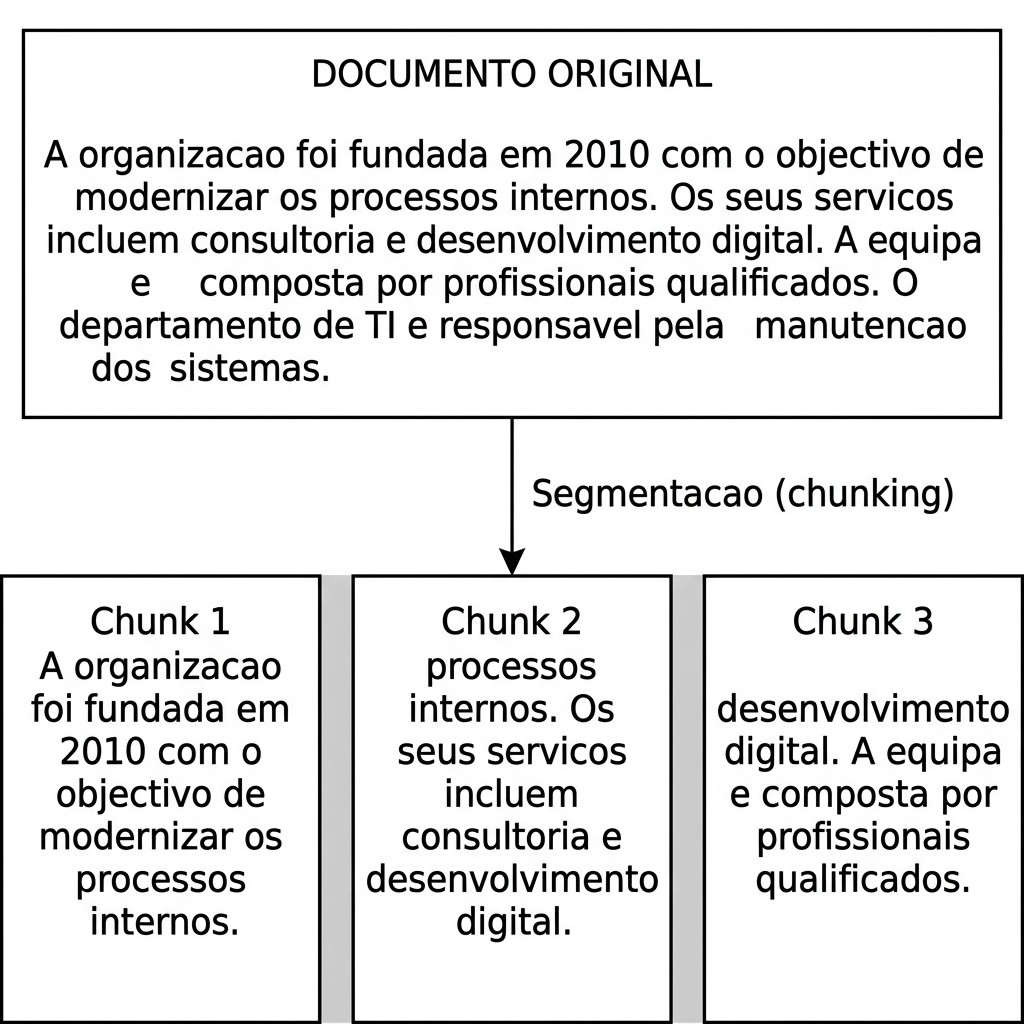
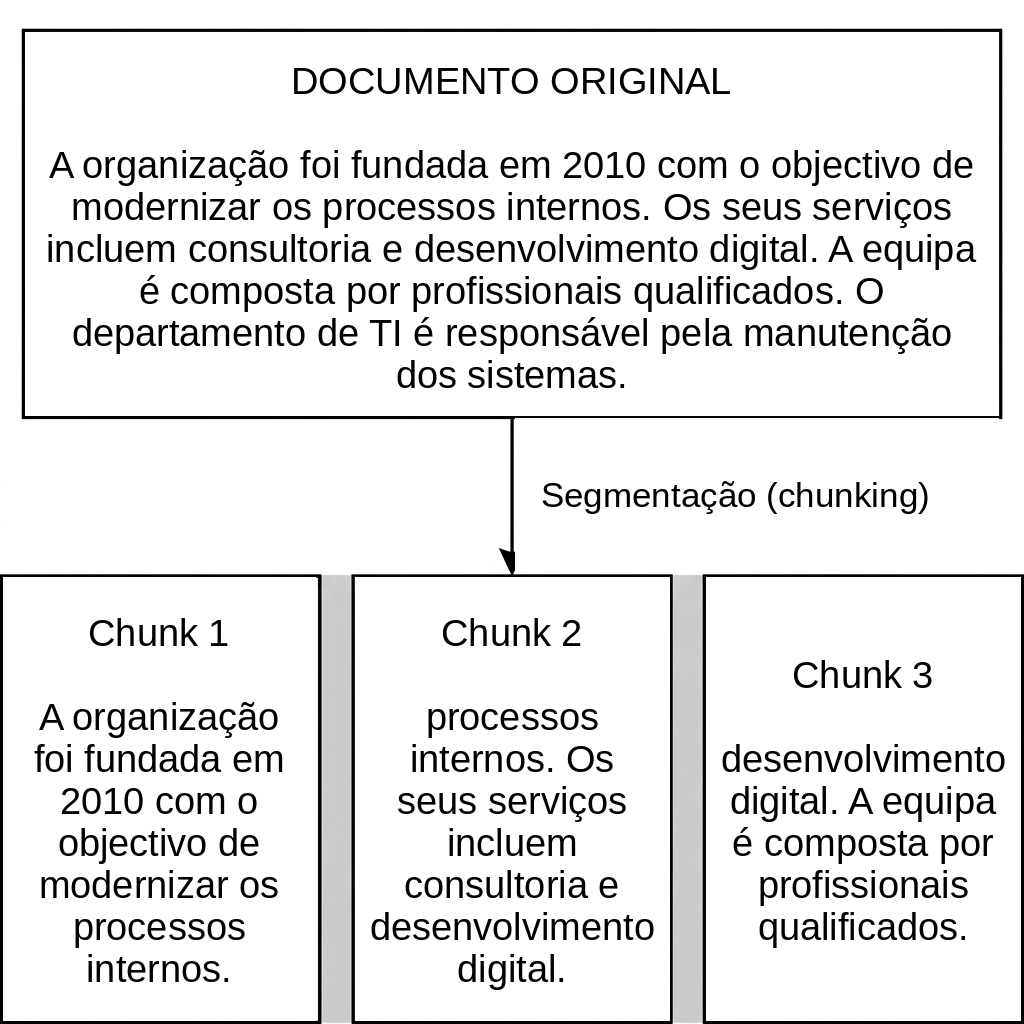
refactor: update thesis documentation and improve LaTeX build pipeline with new Lua filters and figure formatting

diff --git a/docs/chapters/04-resultados.md b/docs/chapters/04-resultados.md
@@ -50,7 +50,7 @@ Os Requisitos Funcionais (RF) definem os serviços que o sistema deve fornecer a
 \textbf{RF-08} & Gestão de Utilizadores & O administrador deve poder gerir os utilizadores da empresa, associando-os a um departamento e a um cargo específico. \\
 \hline
 \end{tabular}
-\caption{Quadro 4.1: Requisitos Funcionais do Sistema. Fonte: Elaboração própria.}
+\caption[Quadro 4.1: Requisitos Funcionais do Sistema.]{Quadro 4.1: Requisitos Funcionais do Sistema. Fonte: Elaboração própria.}
 \end{quadro}
 
 #### 4.1.2.2. Requisitos Não Funcionais
@@ -75,7 +75,7 @@ Os Requisitos Não Funcionais (RNF) especificam critérios que qualificam o func
 \textbf{RNF-05} & Disponibilidade e Extensibilidade & A lógica de ingestão documental e recuperação RAG deve correr numa infra-estrutura modular externa (n8n), facilitando a adição de novos conectores sem necessidade de recompilar o frontend Next.js. \\
 \hline
 \end{tabular}
-\caption{Quadro 4.2: Requisitos Não Funcionais do Sistema. Fonte: Elaboração própria.}
+\caption[Quadro 4.2: Requisitos Não Funcionais do Sistema.]{Quadro 4.2: Requisitos Não Funcionais do Sistema. Fonte: Elaboração própria.}
 \end{quadro}
 
 ### 4.1.3. Modelação do Sistema
@@ -86,6 +86,7 @@ A modelação gráfica do sistema foi elaborada recorrendo à linguagem UML (*Un
 
 O Diagrama de Contexto define a fronteira entre a aplicação desenvolvida e as entidades ou sistemas externos com os quais interage directamente para assegurar as funcionalidades requeridas.
 
+::: {.keep-together}
 ```plantuml
 @startuml
 skinparam rectangle {
@@ -120,15 +121,16 @@ n8n --> cohere : "Textos para Processamento"
 cohere --> n8n : "Vectores / Respostas"
 @enduml
 ```
-
-\begin{center}
-\captionof{figure}{Diagrama de Contexto do Sistema. Fonte: Elaboração própria.}
-\end{center}
+```{=latex}
+\caption[Diagrama de Contexto do Sistema.]{Diagrama de Contexto do Sistema. Fonte: Elaboração própria.}
+```
+:::
 
 #### 4.1.3.2. Diagrama de Casos de Uso
 
 O Diagrama de Casos de Uso detalha as interacções dos actores principais (Utilizador e Administrador) com o sistema, mapeando o escopo funcional do protótipo desenvolvido.
 
+::: {.keep-together}
 ```plantuml
 @startuml
 left to right direction
@@ -158,10 +160,10 @@ Admin --> UC6
 Admin --> UC7
 @enduml
 ```
-
-\begin{center}
-\captionof{figure}{Diagrama de Casos de Uso do Sistema. Fonte: Elaboração própria.}
-\end{center}
+```{=latex}
+\caption[Diagrama de Casos de Uso do Sistema.]{Diagrama de Casos de Uso do Sistema. Fonte: Elaboração própria.}
+```
+:::
 
 #### 4.1.3.3. Especificação dos Casos de Uso
 
@@ -194,7 +196,7 @@ A especificação detalhada dos casos de uso principais do sistema fornece uma d
 \textbf{Pós-condições:} & A sessão do chat é registada na base de dados e a resposta contendo a referência às fontes é mostrada ao utilizador. \\
 \hline
 \end{tabular}
-\caption{Quadro 4.3: Especificação do Caso de Uso - Consultar Base de Conhecimento (Chat). Fonte: Elaboração própria.}
+\caption[Quadro 4.3: Especificação do Caso de Uso - Consultar Base de Conhecimento (Chat).]{Quadro 4.3: Especificação do Caso de Uso - Consultar Base de Conhecimento (Chat). Fonte: Elaboração própria.}
 \end{quadro}
 
 O Quadro 4.4 descreve a especificação do caso de uso de Upload de Conteúdo e Configuração de Acesso.
@@ -226,13 +228,14 @@ O Quadro 4.4 descreve a especificação do caso de uso de Upload de Conteúdo e 
 \textbf{Pós-condições:} & O conteúdo encontra-se guardado, vectorizado e pronto a ser recuperado em pesquisas semânticas pelas pessoas autorizadas. \\
 \hline
 \end{tabular}
-\caption{Quadro 4.4: Especificação do Caso de Uso - Upload de Conteúdo e Acessos. Fonte: Elaboração própria.}
+\caption[Quadro 4.4: Especificação do Caso de Uso - Upload de Conteúdo e Acessos.]{Quadro 4.4: Especificação do Caso de Uso - Upload de Conteúdo e Acessos. Fonte: Elaboração própria.}
 \end{quadro}
 
 #### 4.1.3.4. Diagrama de Classes
 
 O Diagrama de Classes apresenta a estrutura lógica do sistema ao nível do domínio dos dados, modelando as entidades principais, os seus atributos e os relacionamentos de associação e multiplicidade que sustentam o funcionamento da plataforma.
 
+::: {.keep-together}
 ```plantuml
 @startuml
 class Company {
@@ -319,10 +322,10 @@ Document "*" o-- "*" Department : restrito por DocumentDepartment >
 Document "*" o-- "*" Role : restrito por DocumentPermission >
 @enduml
 ```
-
-\begin{center}
-\captionof{figure}{Diagrama de Classes do Domínio do Sistema. Fonte: Elaboração própria.}
-\end{center}
+```{=latex}
+\caption[Diagrama de Classes do Domínio do Sistema.]{Diagrama de Classes do Domínio do Sistema. Fonte: Elaboração própria.}
+```
+:::
 
 #### 4.1.3.5. Diagrama Entidade-Relacional
 
@@ -330,6 +333,7 @@ O Diagrama Entidade-Relacional (DER) detalha a modelação lógica e física da 
 
 A modelação inclui adicionalmente a chave estrangeira `company_id` na tabela `documents` para impor um isolamento estrito de múltiplos inquilinos (*multi-tenancy*) ao nível relacional, mitigando o risco de vazamento de dados exposto em fases anteriores de teste.
 
+::: {.keep-together}
 ```plantuml
 @startuml
 !define Table(name,desc) entity name as "desc" << (T,#FFAAAA) >>
@@ -450,10 +454,10 @@ documents ||--o{ chunks : "fragmentado em"
 ai_chat_sessions ||--o{ ai_chat_messages : "contém"
 @enduml
 ```
-
-\begin{center}
-\captionof{figure}{Diagrama Entidade-Relacional (DER) da Base de Dados. Fonte: Elaboração própria.}
-\end{center}
+```{=latex}
+\caption[Diagrama Entidade-Relacional (DER) da Base de Dados.]{Diagrama Entidade-Relacional (DER) da Base de Dados. Fonte: Elaboração própria.}
+```
+:::
 
 ### 4.1.4. Qualidade do Software
 
@@ -498,6 +502,7 @@ Para garantir que o agente de inteligência artificial produza respostas formata
 
 A arquitectura do sistema segue um modelo de camadas descentralizado, separando a interface do utilizador, a lógica da aplicação, a base de dados relacional e vectorial, e a orquestração assíncrona dos pipelines de Inteligência Artificial.
 
+::: {.keep-together}
 ```plantuml
 @startuml
 !include https://raw.githubusercontent.com/plantuml-stdlib/C4-PlantUML/master/C4_Container.puml
@@ -532,10 +537,10 @@ Rel(n8nApp, rerankAPI, "Re-ranking semântico", "REST API")
 Rel(n8nApp, chatAPI, "Gera respostas RAG", "REST API")
 @enduml
 ```
-
-\begin{center}
-\captionof{figure}{Arquitectura Física e Lógica do Sistema. Fonte: Elaboração própria.}
-\end{center}
+```{=latex}
+\caption[Arquitectura Física e Lógica do Sistema.]{Arquitectura Física e Lógica do Sistema. Fonte: Elaboração própria.}
+```
+:::
 
 #### 4.1.5.4. Ferramentas e Tecnologias Utilizadas
 
@@ -569,7 +574,7 @@ A stack tecnológica seleccionada para a implementação do protótipo baseia-se
 \textbf{Síntese LLM} & Cohere Chat (\texttt{command\-r\-plus\-08\-2024}) & Modelo de linguagem optimizado para tarefas RAG com forte capacidade de raciocínio, formatação estruturada e citação transparente de fontes do contexto. \\
 \hline
 \end{tabular}
-\caption{Quadro 4.5: Stack Tecnológica do Sistema. Fonte: Elaboração própria.}
+\caption[Quadro 4.5: Stack Tecnológica do Sistema.]{Quadro 4.5: Stack Tecnológica do Sistema. Fonte: Elaboração própria.}
 \end{quadro}
 
 Adicionalmente, os detalhes das \textit{system prompts} utilizadas e as configurações específicas de hiperparâmetros dos modelos Cohere, essenciais para a reprodutibilidade dos resultados, encontram-se detalhados no **Anexo II**.
@@ -597,7 +602,7 @@ Os testes de eficiência temporal mediram o tempo de resposta (em segundos) em d
 \textbf{T-06} & Pesquisa Semântica & Consulta de 2 linhas ("Como solicitar reembolso de despesas?") & 2.15 & Sucesso \\
 \hline
 \end{tabular}
-\caption{Tabela 4.1: Resultados dos Testes de Eficiência Temporal com Documentos Empresariais. Fonte: Elaboração própria.}
+\caption[Tabela 4.1: Resultados dos Testes de Eficiência Temporal com Documentos Empresariais.]{Tabela 4.1: Resultados dos Testes de Eficiência Temporal com Documentos Empresariais. Fonte: Elaboração própria.}
 \end{tabela}
 
 Os resultados demonstram que, mesmo com a latência de rede associada à invocação assíncrona de webhooks no n8n e à geração remota de \textit{embeddings} pela API da Cohere, o tempo médio para obter uma resposta inteligente manteve-se confortavelmente abaixo do limiar de 10 segundos definido no requisito **RNF-02**. O requisito RNF-02 aplica-se exclusivamente ao fluxo de consulta semântica e geração de resposta (T-05, T-06). Os testes T-01 a T-04 correspondem ao fluxo de ingestão documental, não abrangido por este requisito.
@@ -626,7 +631,7 @@ A avaliação qualitativa seguiu uma rubrica padronizada: 'Excelente' (o sistema
 \textbf{QA-04} & Operador / Produção / Empresa B & "Como iniciar a máquina X?" & Acede à página Wiki \texttt{Proc\_}\newline\texttt{Maquina\_X} (Produção). & \textbf{Permitido:} Pertence ao departamento do utilizador. & \textbf{Excelente:} Passos descritos de forma coerente. & Sim (\texttt{Proc\_}\newline\texttt{Maquina\_X}) \\
 \hline
 \end{tabular}
-\caption{Quadro 4.6: Matriz de Testes de Relevância Qualitativa e Segurança. Fonte: Elaboração própria.}
+\caption[Quadro 4.6: Matriz de Testes de Relevância Qualitativa e Segurança.]{Quadro 4.6: Matriz de Testes de Relevância Qualitativa e Segurança. Fonte: Elaboração própria.}
 \end{quadro}
 
 A análise qualitativa das simulações fornece evidências preliminares da eficácia das políticas implementadas: nos cenários avaliados, os mecanismos actuaram de forma a não permitir o envio de dados não autorizados para o LLM, nem permitiram o acesso a documentos de outro tenant nem a documentos fora do perímetro de autorização do utilizador, mitigando a possibilidade de fuga de informação inter-tenant e minimizando alucinações ao limitar o contexto apenas a dados autorizados.
@@ -641,7 +646,7 @@ Apresenta um formulário unificado e responsivo com divisão visual (imagem conc
 
 \begin{figure}[htbp]
   \makebox[\textwidth][c]{\includegraphics[width=1.2\textwidth]{docs/images/login.png}}
-  \caption{Ecrã de Autenticação e registo Multi-tenant. Fonte: Elaboração própria.}
+  \caption[Ecrã de Autenticação e registo Multi-tenant.]{Ecrã de Autenticação e registo Multi-tenant. Fonte: Elaboração própria.}
 \end{figure}
 
 ##### b) Painel Administrativo (RBAC e Departamentos)
@@ -650,7 +655,7 @@ Fornece interfaces centralizadas para gestão de acesso relacional. Através des
 
 \begin{figure}[htbp]
   \makebox[\textwidth][c]{\includegraphics[width=1.2\textwidth]{docs/images/administracao.png}}
-  \caption{Interface do Painel Administrativo (RBAC e Departamentos). Fonte: Elaboração própria.}
+  \caption[Interface do Painel Administrativo (RBAC e Departamentos).]{Interface do Painel Administrativo (RBAC e Departamentos). Fonte: Elaboração própria.}
 \end{figure}
 
 ##### c) Módulo de Gestão Documental e Upload
@@ -661,14 +666,14 @@ O módulo de documentos subdivide-se no ecossistema de carregamento e na tabela 
 
 \begin{figure}[htbp]
   \makebox[\textwidth][c]{\includegraphics[width=1.2\textwidth]{docs/images/upload-arquivos.png}}
-  \caption{Módulo de Carregamento de Documentos (\textit{Drag-and-Drop}). Fonte: Elaboração própria.}
+  \caption[Módulo de Carregamento de Documentos (\textit{Drag-and-Drop}).]{Módulo de Carregamento de Documentos (\textit{Drag-and-Drop}). Fonte: Elaboração própria.}
 \end{figure}
 
 *   **Tabela de Base Documental:** Exibe o repositório centralizado de ficheiros da organização, listando metadados como tamanho, departamento associado, data de criação e o estado de conversão e vectorização em tempo real (`pending`, `processed`, `error`).
 
 \begin{figure}[htbp]
   \makebox[\textwidth][c]{\includegraphics[width=1.2\textwidth]{docs/images/base-documental.png}}
-  \caption{Tabela da Base Documental Organizacional. Fonte: Elaboração própria.}
+  \caption[Tabela da Base Documental Organizacional.]{Tabela da Base Documental Organizacional. Fonte: Elaboração própria.}
 \end{figure}
 
 ##### d) Módulo de Wiki Corporativa
@@ -677,7 +682,7 @@ Consiste num editor de texto incorporado directamente na plataforma. Permite aos
 
 \begin{figure}[htbp]
   \makebox[\textwidth][c]{\includegraphics[width=1.2\textwidth]{docs/images/wiki.png}}
-  \caption{Módulo de Wiki e Edição de Conteúdo Interno. Fonte: Elaboração própria.}
+  \caption[Módulo de Wiki e Edição de Conteúdo Interno.]{Módulo de Wiki e Edição de Conteúdo Interno. Fonte: Elaboração própria.}
 \end{figure}
 
 ##### e) Interface de Chat IA (Pesquisa Inteligente)
@@ -686,7 +691,7 @@ Representa a interface principal de interacção do utilizador com o agente de i
 
 \begin{figure}[htbp]
   \makebox[\textwidth][c]{\includegraphics[width=1.2\textwidth]{docs/images/chat-ia.png}}
-  \caption{Interface de Pesquisa Inteligente e Inspeção de Fontes Bibliográficas. Fonte: Elaboração própria.}
+  \caption[Interface de Pesquisa Inteligente e Inspeção de Fontes Bibliográficas.]{Interface de Pesquisa Inteligente e Inspeção de Fontes Bibliográficas. Fonte: Elaboração própria.}
 \end{figure}
 
 #### 4.1.5.7. Codificação

diff --git a/docs/chapters/00-pre-textuais.md b/docs/chapters/00-pre-textuais.md
@@ -142,7 +142,7 @@ Expresso a minha mais profunda e sincera gratidão à minha mãe, Santa Madalena
 
 \section*{Resumo}
 
-Este Trabalho Final de Curso apresenta o desenvolvimento e a avaliação de um protótipo de sistema de Gestão da Informação Organizacional suportado por Inteligência Artificial, desenhado especificamente para mitigar a fragmentação e os silos de dados nas organizações angolanas. Através de uma arquitectura \textit{Retrieval-Augmented Generation} (RAG), combinada com um orquestrador de automação (n8n), uma base de dados relacional com suporte a armazenamento e pesquisa vectorial (Supabase/PostgreSQL com `pgvector`) e uma interface moderna em Next.js, a plataforma permite centralizar acervos documentais e oferecer pesquisas por meio de conversação. O sistema foca-se no isolamento \textit{multi-tenant} e num controlo de acessos baseado em papéis e departamentos (RBAC/ABAC), garantindo que os utilizadores apenas interajam com informação estritamente autorizada, ajudando a mitigar o risco de alucinações e fugas de dados confidenciais. Os resultados práticos validam a viabilidade operacional e técnica desta solução, evidenciando respostas rápidas e metodologicamente seguras, democratizando assim o acesso ao conhecimento institucional. Para fins de transparência e reprodutibilidade, o código-fonte integral encontra-se disponível publicamente no GitHub (https://github.com/Cristiano-Rodrigues/TFC), e um protótipo funcional para demonstração pode ser acedido em https://tfc-lemon.vercel.app.
+Este Trabalho Final de Curso apresenta o desenvolvimento e a avaliação de um protótipo de sistema de Gestão da Informação Organizacional suportado por Inteligência Artificial, desenhado especificamente para mitigar a fragmentação e os silos de dados nas organizações angolanas. Através de uma arquitectura \textit{Retrieval-Augmented Generation} (RAG), combinada com um orquestrador de automação (n8n), uma base de dados relacional com suporte a armazenamento e pesquisa vectorial (Supabase/PostgreSQL com `pgvector`) e uma interface moderna em Next.js, a plataforma permite centralizar acervos documentais e oferecer pesquisas por meio de conversação. O sistema possui isolamento \textit{multi-tenant} e um controlo de acessos baseado em papéis e departamentos (RBAC/ABAC), garantindo que os utilizadores apenas interajam com informação estritamente autorizada, ajudando a mitigar o risco de alucinações e fugas de dados confidenciais. Os resultados práticos evidenciam a viabilidade operacional e técnica desta solução, proporcionando respostas rápidas e metodologicamente seguras, democratizando assim o acesso ao conhecimento institucional. Para fins de transparência e reprodutibilidade, o código-fonte integral encontra-se disponível publicamente no GitHub (https://github.com/Cristiano-Rodrigues/TFC), e um protótipo funcional para demonstração pode ser acedido em https://tfc-lemon.vercel.app.
 
 \vspace{0.5cm}
 \noindent \textbf{Palavras-chave:} Inteligência Artificial, RAG, Gestão do Conhecimento.
@@ -150,7 +150,7 @@ Este Trabalho Final de Curso apresenta o desenvolvimento e a avaliação de um p
 
 \section*{Abstract}
 
-This final degree project presents the development and evaluation of an Artificial Intelligence-supported Organizational Information Management prototype, specifically designed to mitigate data fragmentation and information silos within Angolan organizations. Through a \textit{Retrieval-Augmented Generation} (RAG) architecture, combined with a low-code automation orchestrator (n8n), a relational database with support for vector storage and search (Supabase/PostgreSQL with `pgvector`), and a modern Next.js interface, the platform allows the centralization of document collections and provides conversational search capabilities. The system focuses on multi-tenant isolation and access control based on roles and departments (RBAC/ABAC), ensuring that users only interact with strictly authorized information, helping to mitigate the risk of AI hallucinations and confidential data leaks. Practical results validate the operational and technical feasibility of this solution, demonstrating fast and methodologically secure responses, ultimately democratizing access to institutional knowledge. For transparency and reproducibility purposes, the complete source code is publicly available on GitHub (https://github.com/Cristiano-Rodrigues/TFC), and a functional prototype for demonstration can be accessed at https://tfc-lemon.vercel.app.
+This final degree project presents the development and evaluation of an Artificial Intelligence-supported Organizational Information Management prototype, specifically designed to mitigate data fragmentation and information silos within Angolan organizations. Through a \textit{Retrieval-Augmented Generation} (RAG) architecture, combined with a low-code automation orchestrator (n8n), a relational database with support for vector storage and search (Supabase/PostgreSQL with `pgvector`), and a modern Next.js interface, the platform allows the centralization of document collections and provides conversational search capabilities. The system has multi-tenant isolation and access control based on roles and departments (RBAC/ABAC), ensuring that users only interact with strictly authorized information, helping to mitigate the risk of AI hallucinations and confidential data leaks. Practical results demonstrate the operational and technical feasibility of this solution, providing fast and methodologically secure responses, ultimately democratizing access to institutional knowledge. For transparency and reproducibility purposes, the complete source code is publicly available on GitHub (https://github.com/Cristiano-Rodrigues/TFC), and a functional prototype for demonstration can be accessed at https://tfc-lemon.vercel.app.
 
 \vspace{0.5cm}
 \noindent \textbf{Keywords:} Artificial Intelligence, RAG, Knowledge Management.

diff --git a/docs/chapters/01-introducao.md b/docs/chapters/01-introducao.md
@@ -22,7 +22,7 @@ No contexto das organizações angolanas, a gestão da informação apresenta de
 
 O Ministério das Telecomunicações, Tecnologias de Informação e Comunicação Social (MTTI) reconhece esta lacuna, sublinhando a necessidade urgente de transição para serviços digitais mais eficientes no seu Livro Branco sobre as TIC [@mttiLivroBrancoTIC2019]. Adicionalmente, @quialaGOVERNOELETRONICOUMA2023 evidenciam que a modernização administrativa em Angola carece de sistemas integrados que superem as barreiras da burocracia documental tradicional. Apesar da evolução global, a Inteligência Artificial é ainda frequentemente percepcionada nestas organizações como uma ferramenta futurista ou inacessível, e não como uma necessidade operacional imediata para a gestão do conhecimento.
 
-Diante deste cenário, a presente investigação estrutura-se em torno da seguinte **pergunta central**: *Como avaliar a viabilidade técnica de um protótipo de sistema de gestão da informação organizacional, baseado em orquestração de inteligência artificial, capaz de centralizar, classificar e facilitar a recuperação de dados em ambientes empresariais angolanos?*
+Diante deste cenário, a presente investigação estrutura-se em torno da seguinte **pergunta central**: *Como avaliar a viabilidade técnica de um protótipo de sistema de gestão da informação organizacional, baseado em agentes de inteligência artificial, capaz de centralizar, classificar e facilitar a recuperação de dados em ambientes empresariais angolanos?*
 
 ## 1.2. Objectivo da Pesquisa
 
@@ -32,8 +32,8 @@ Para alcançar este propósito, definiram-se os seguintes objectivos específico
 
 *   Identificar e caracterizar os principais desafios na gestão da informação no contexto empresarial angolano;
 *   Analisar as soluções tecnológicas existentes para a gestão documental e a recuperação de conhecimento (estado da arte);
-*   Modelar a arquitectura técnica de um sistema baseado em agentes de Inteligência Artificial, desenhando a interacção entre os módulos de ingestão, indexação vectorial e síntese de respostas;
-*   Implementar um protótipo funcional do sistema proposto, assegurando requisitos de segurança, suporte *multi-tenant* e controlo de acessos baseado em papéis (RBAC);
+*   Modelar a arquitectura técnica de um sistema baseado em agentes de Inteligência Artificial, desenhando a interacção entre os agentes especializados responsáveis pela ingestão, indexação vectorial e síntese de respostas;
+*   Implementar um protótipo funcional do sistema proposto, assegurando a colaboração entre agentes especializados, a ingestão autónoma de informação proveniente de fontes organizacionais, o suporte *multi-tenant* e o controlo de acessos baseado em papéis (RBAC);
 *   Avaliar o desempenho do sistema construído, aferindo a relevância qualitativa das respostas geradas e a eficiência temporal na recuperação de informação.
 
 ## 1.3. Justificativa
